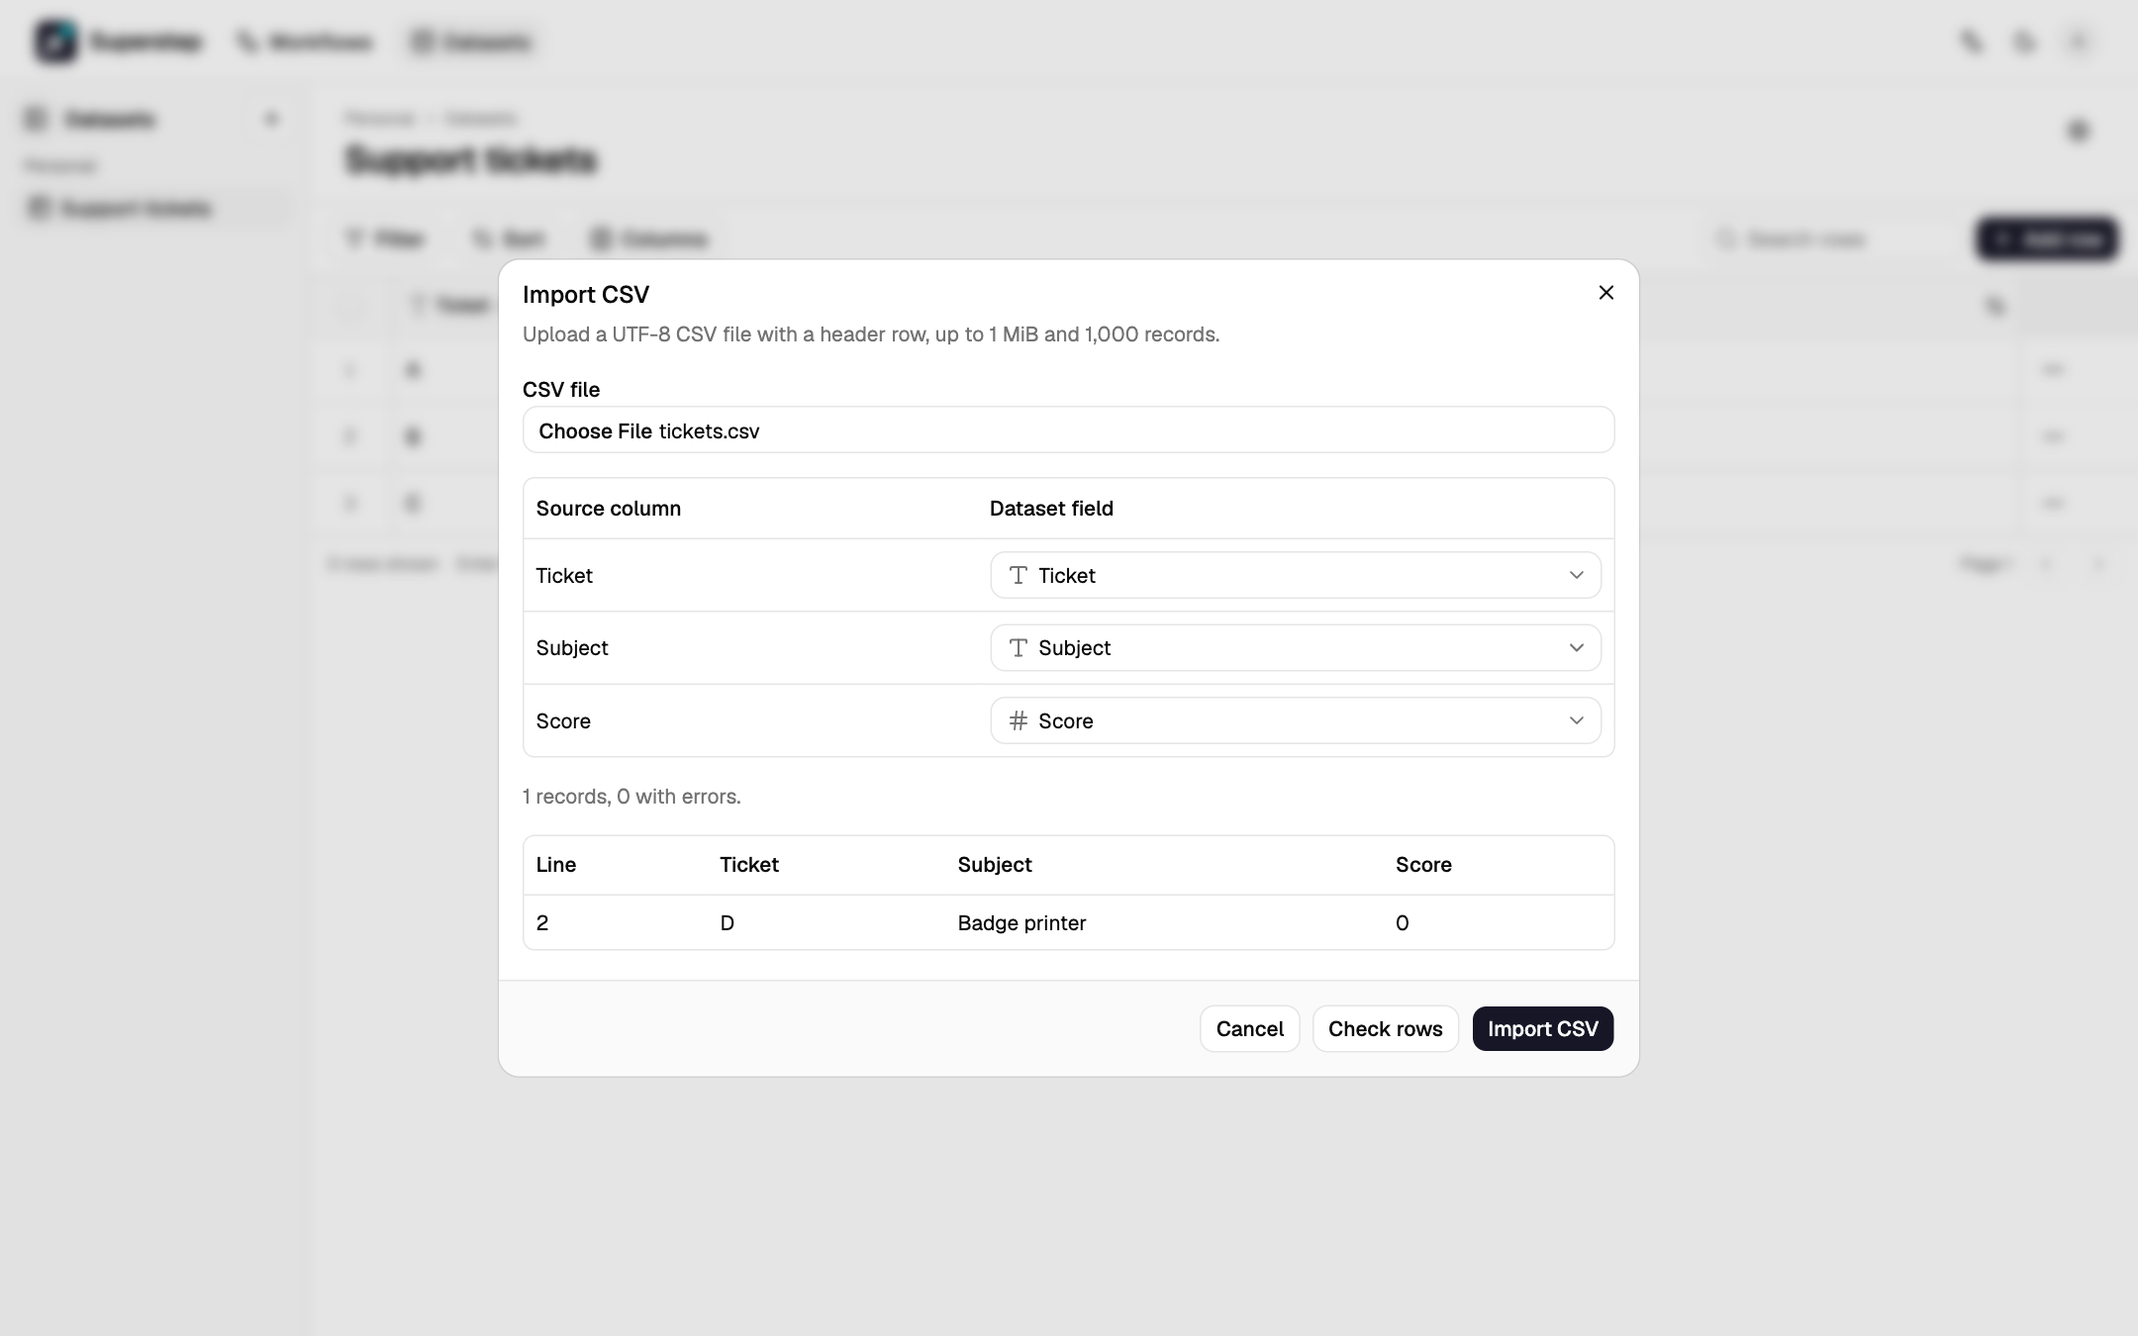
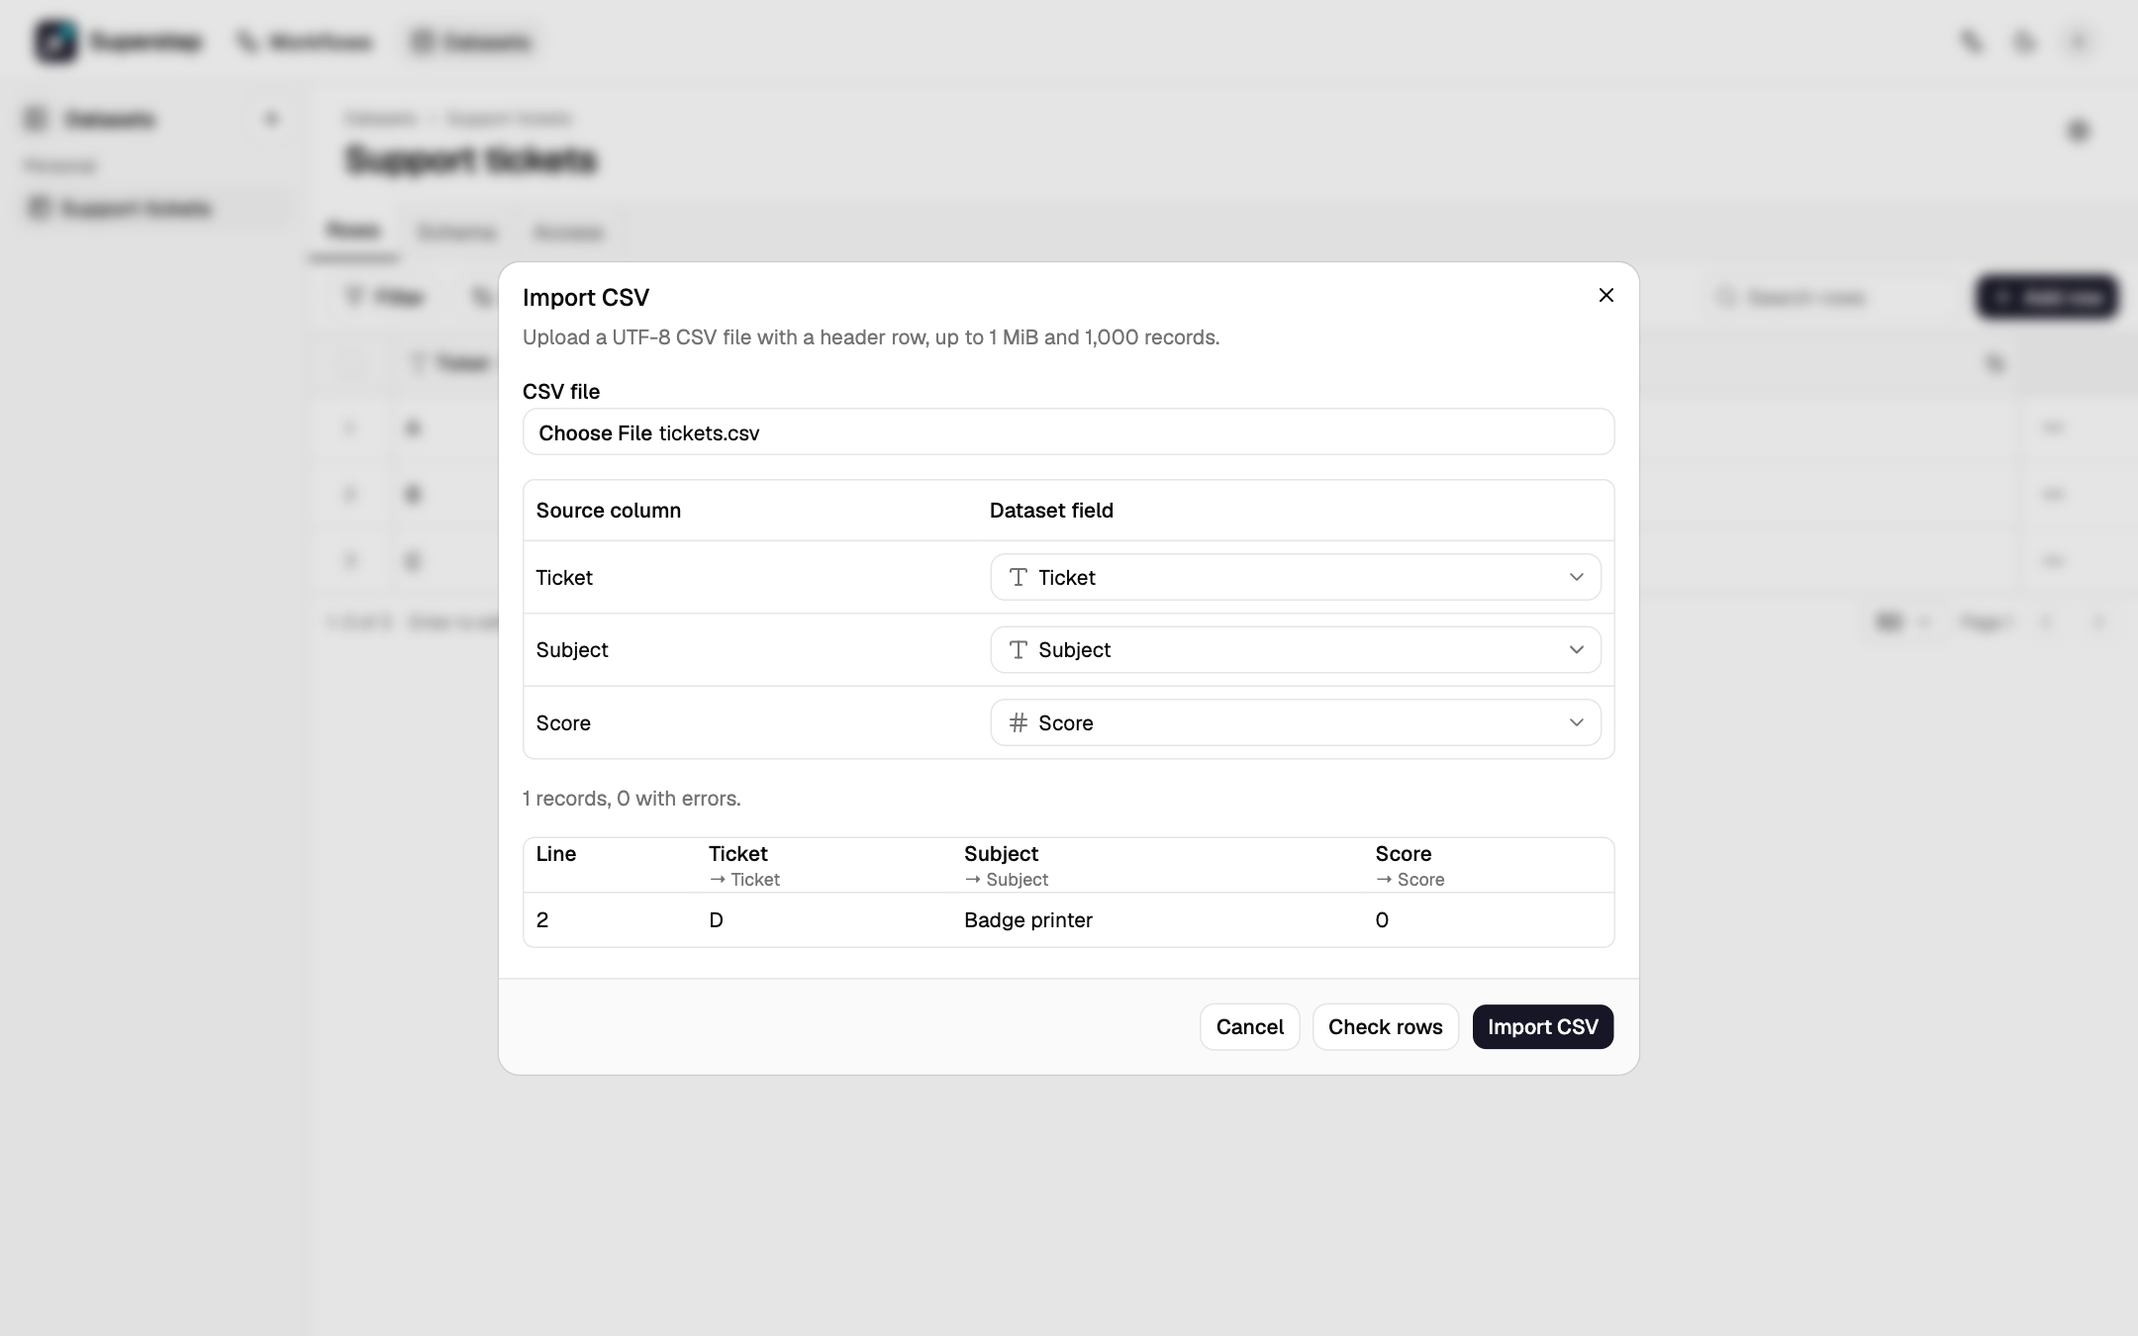
TASK-0344 Record Dataset phase one acceptance

diff --git a/frontend/e2e/dataset-handbook.spec.ts b/frontend/e2e/dataset-handbook.spec.ts
@@ -32,7 +32,7 @@ test('capture the dataset grid, a narrow layout, and the CSV preview', async ({ 
       viewport: { width: 1440, height: 900 }, deviceScaleFactor: 1.5, locale: lang === 'vi' ? 'vi-VN' : 'en-US',
     })
     const page = await context.newPage()
-    await page.addInitScript(value => localStorage.setItem('lang', value), lang)
+    await page.addInitScript(value => { localStorage.setItem('lang', value); localStorage.setItem('theme', 'light') }, lang)
     await page.goto('/login')
     const token = await signIn(page, 'admin@example.com', 'admin123')
     const headers = { Authorization: `Bearer ${token}` }
@@ -63,6 +63,15 @@ test('capture the dataset grid, a narrow layout, and the CSV preview', async ({ 
     await expect(page.getByRole('heading', { name: copy.name })).toBeVisible()
     await expect(page.getByTestId('dataset-row')).toHaveCount(3)
     await shot(page, lang, 'datasets-grid')
+    await page.evaluate(() => {
+      localStorage.setItem('theme', 'dark')
+      document.documentElement.classList.add('dark')
+    })
+    await shot(page, lang, 'datasets-grid-dark')
+    await page.evaluate(() => {
+      localStorage.setItem('theme', 'light')
+      document.documentElement.classList.remove('dark')
+    })
 
     await page.setViewportSize({ width: 390, height: 844 })
     await expect(page.getByTestId('dataset-row').first()).toBeVisible()

diff --git a/handbook/docs/vi/guide/datasets.md b/handbook/docs/vi/guide/datasets.md
@@ -4,11 +4,18 @@ Tập dữ liệu là một bảng có kiểu, thuộc về bạn hoặc một n
 cứu và ghi dòng. Dự án xuất ra có thể dùng cùng các dòng đó qua API Superstep
 hoặc qua cơ sở SQLite hay PostgreSQL riêng.
 
-## Soạn thảo
+## Soạn thảo {#authoring}
 
 Mở **Tập dữ liệu** từ điều hướng của studio.
 
+**Dòng dữ liệu**, **Định nghĩa cột** và **Quyền truy cập** là các thẻ có liên kết trực tiếp.
+Trình duyệt lưu thứ tự, độ rộng và trạng thái ẩn cột riêng cho từng tập dữ liệu.
+Bạn có thể chọn 25, 50 hoặc 100 dòng mỗi trang. Phạm vi đang hiển thị phản ánh
+kết quả tìm kiếm và bộ lọc hiện tại.
+
 ![Lưới Phiếu hỗ trợ](../images/datasets-grid.png)
+
+[Xem lưới ở giao diện tối](../images/datasets-grid-dark.png)
 
 Trên màn hình hẹp, danh mục xếp dưới tiêu đề và lưới cuộn ngang.
 
@@ -53,9 +60,9 @@ các thao tác này ở trạng thái tắt, kèm giải thích, cho các thành
 trị viên có thể chuyển tập dữ liệu nhóm cho thành viên khác bằng **Chuyển quyền
 sở hữu** trong menu tập dữ liệu.
 
-## Quyền truy cập
+## Quyền truy cập {#access}
 
-Menu **Quyền truy cập** cấp cho một workflow đã lưu quyền đọc hoặc ghi. Workflow
+Thẻ **Quyền truy cập** cấp cho một workflow đã lưu quyền đọc hoặc ghi. Workflow
 không có quyền đó không chạy được node Tập dữ liệu hoặc công cụ Tập dữ liệu trên
 bảng này. Xoá dòng là một quyền riêng: chọn **Cho phép xoá dòng** trên quyền đã
 cấp. Chỉ quyền đọc và ghi thì không được Xoá dòng.
@@ -87,7 +94,7 @@ cả khi có quyền đọc và ghi. Upsert vẫn cho biết đã có dòng mang
 chưa. Nếu điều này cần được giữ kín, hãy dùng **Thêm dòng**. Upsert không đổi giá
 trị nào thì giữ nguyên revision và thời điểm cập nhật của dòng.
 
-## CSV
+## CSV {#csv}
 
 **Nhập CSV** xem trước tệp trước khi ghi.
 
@@ -107,7 +114,7 @@ trị nào thì giữ nguyên revision và thời điểm cập nhật của dò
   thức được thêm dấu nháy đơn ở đầu. Khi nhập, dấu nháy đó được bỏ đi, nên xuất
   rồi nhập lại cho đúng các giá trị cũ. Bản tải về tối đa 16 MiB.
 
-## Workflow và xuất dự án
+## Workflow và xuất dự án {#workflows-and-export}
 
 Node Tập dữ liệu có thể tìm dòng, lấy một dòng, chèn dòng, upsert dòng, hoặc
 xoá dòng. **Xoá dòng** chọn dòng theo id dòng lấy từ state, hoặc theo một trường
@@ -135,12 +142,25 @@ triển khai có thể đổi backend mà không cần xuất lại. Đặt:
 Chạy `python agent.py --setup-datasets` hoặc lệnh TypeScript tương ứng trước
 lần chạy đầu. Setup lặp lại vẫn an toàn. Lệnh tạo các bảng của dự án và giữ
 những dòng đã có. Xoá dòng và thao tác ghi của Agent cũng chạy trên cơ sở dữ
-liệu độc lập, và mỗi lần ghi được lưu lại để lần thử lại trả về kết quả đầu. Ảnh chụp tắt trừ khi bạn chọn **Kèm các dòng hiện tại** cho
+liệu độc lập. Khi thử lại đúng yêu cầu trong thời hạn lưu biên nhận, hệ thống
+trả mã dòng và kết quả chèn ban đầu, kèm giá trị hiện tại nếu dòng còn tồn tại.
+Sau khi nâng cấp bản xuất độc lập, hãy chạy lại lệnh thiết lập để chuyển đổi
+biên nhận cũ. Ảnh chụp tắt trừ khi bạn chọn **Kèm các dòng hiện tại** cho
 binding độc lập. Khi đó gói chứa tối đa 1.000 dòng trong
 `dataset-snapshots.json`. Setup chỉ nhập dòng ảnh chụp khi id đó chưa được lưu,
 và từ chối ảnh chụp có lược đồ không khớp binding.
 
-## Sao lưu, nâng cấp, và giới hạn
+Trước khi chạy một quy trình có thể ghi dữ liệu, Studio yêu cầu xác nhận một
+lần trong phiên trình duyệt. Kiểm thử quy trình chỉ mô phỏng thao tác ghi.
+Nhật ký nút tập dữ liệu hiển thị thao tác, kết quả, số dòng và thời gian.
+Bạn có thể mở phần dữ liệu thô khi cần. Người quản lý có thể dùng **Cấp quyền**
+trong thông báo thiếu quyền để mở thẻ **Quyền truy cập** với quy trình đã chọn.
+
+Mã truy cập hợp lệ nhưng thiếu quyền thao tác trả về `403 DATASET_TOKEN_SCOPE`.
+Mã không hợp lệ, đã bị thu hồi hoặc thuộc tập dữ liệu khác trả về
+`401 AUTH_TOKEN_INVALID`.
+
+## Sao lưu, nâng cấp, và giới hạn {#backup-upgrade-and-limits}
 
 Sao lưu tệp SQLite độc lập bằng cách chép tệp khi không có tiến trình ghi, hoặc
 sao lưu PostgreSQL bằng `pg_dump`. Cơ sở Superstep giữ dòng của Studio trong

diff --git a/handbook/docs/en/guide/datasets.md b/handbook/docs/en/guide/datasets.md
@@ -4,11 +4,16 @@ A dataset is a typed table owned by you or by a team. Workflows can look up and
 write rows. An exported project can use the same rows through the Superstep API
 or through its own SQLite or PostgreSQL database.
 
-## Authoring
+## Authoring {#authoring}
 
-Open **Datasets** from the studio navigation.
+Open **Datasets** from the Studio navigation. **Rows**, **Schema**, and
+**Access** are tabs that you can link to directly. The grid saves column order,
+widths, and visibility in your browser for each dataset. Choose 25, 50, or 100
+rows per page. The range reflects the active search and filters.
 
 ![The Support tickets grid](../images/datasets-grid.png)
+
+[View the grid in dark mode](../images/datasets-grid-dark.png)
 
 On a narrow screen the catalog folds under the header and the grid scrolls sideways.
 
@@ -54,9 +59,9 @@ shows these actions disabled, with an explanation, for other members. An
 admin can move a team dataset to another team member with **Transfer
 ownership** in the dataset menu.
 
-## Access
+## Access {#access}
 
-The dataset menu **Access** grants one saved workflow read or write permission.
+The **Access** tab grants one saved workflow read or write permission.
 A workflow without that grant cannot run a Dataset node or Dataset tool against
 it. Deleting rows is a separate capability: check **Allow row deletion** on the
 grant. Read and write alone do not allow Delete row.
@@ -88,7 +93,7 @@ write access. Upsert still reveals whether a row with that key exists. If that
 must stay hidden, use **Insert row**. An upsert that changes no value keeps the
 row's revision and update time.
 
-## CSV
+## CSV {#csv}
 
 **Import CSV** previews the file before it writes anything.
 
@@ -109,7 +114,7 @@ row's revision and update time.
   removes that apostrophe again, so exporting and importing a file gives the
   same values. The download is at most 16 MiB.
 
-## Workflows and export
+## Workflows and export {#workflows-and-export}
 
 A Dataset node can find rows, get one row, insert a row, upsert a row, or
 delete a row. **Delete row** targets either a row id from the state or one
@@ -137,14 +142,26 @@ environment, so a deployment can change it without exporting again. Set:
 Run `python agent.py --setup-datasets` or the TypeScript equivalent before the
 first run. Setup is safe to repeat. It creates the project tables and keeps
 rows that are already stored. Delete row and Agent writes also work in a
-standalone database, and each write is recorded so a retry returns the first
-result. A snapshot is off unless you check **Include
+standalone database. An exact retry within the receipt window returns its
+original row ID and insert outcome, with current values when the row still
+exists. Run setup after upgrading an existing standalone export to migrate old
+receipts. A snapshot is off unless you check **Include
 current rows** for a standalone binding. The archive then contains at most
 1,000 rows in `dataset-snapshots.json`. Setup imports a snapshot row only when
 its id is not already stored, and it rejects a snapshot whose schema does not
 match the binding.
 
-## Backup, upgrade, and limits
+Before Studio runs a workflow that can write rows, it asks you to confirm once
+in your browser session. Workflow tests simulate writes. The Dataset trace
+shows the operation, outcome, row count and time, with raw output available on
+request. Managers can use **Grant access** in the missing-grant hint to open
+**Access** with the workflow selected.
+
+A valid Dataset API token with insufficient scope returns
+`403 DATASET_TOKEN_SCOPE`. Invalid, revoked, and other-dataset tokens return
+`401 AUTH_TOKEN_INVALID`.
+
+## Backup, upgrade, and limits {#backup-upgrade-and-limits}
 
 Back up a standalone SQLite file by copying it while no writer is open, or back
 up PostgreSQL with `pg_dump`. The Superstep database holds Studio rows in the

diff --git a/.factory-state/artifacts/QA-0335-TASK-0344-dataset-fixes-acceptance.md b/.factory-state/artifacts/QA-0335-TASK-0344-dataset-fixes-acceptance.md
@@ -1,0 +1,35 @@
+# QA Report
+
+## Metadata
+
+- Project: superstep
+- QA ID: QA-0335
+- Task ID: TASK-0344
+- Created: 2026-11-14
+- Outcome: pass with follow-up
+
+## Evidence
+
+The integrated Dataset regression, layers and envelope suite passed with 102 passed and 94 skipped on the local SQLite environment with Deno. Six Playwright cases passed, including the bilingual handbook capture. Frontend build, unit suite (319 tests), lint, both strict handbook builds, image link checking and the five matching handbook section anchors passed.
+
+## Required Follow-Up
+
+Confirm the GitHub checks on the proposed merge head. This PR contains the implementation stack for verification. Final admission to develop requires the dependency PRs and fresh integration CI.
+
+## Finding Coverage
+
+| Finding in REQ-0100 | Regression evidence |
+| --- | --- |
+| Write-only frames and needless revisions | `test_dataset_write_only.py::test_write_only_token_reproduces_review_probe`, `test_noop_upsert_keeps_revision_updated_and_audit` |
+| Receipt data, replay and expiry | `test_dataset_receipts.py::test_receipt_migration_minimizes_all_cells_and_supports_downgrade`, `test_deleted_row_replay_and_worker_retention` |
+| Null-safe inequality and case-insensitive Find | `test_dataset_rows.py::test_ne_matches_empty_cells_and_text_matching_ignores_case`, `test_text_sort_ignores_case_with_an_exact_tiebreak` |
+| Team management and token issuer | `test_dataset_team_authority.py::test_team_editors_edit_rows_and_managers_manage`, `test_rotation_keeps_the_issuer_and_the_token_still_authorizes` |
+| Turn on Unique after import | `test_dataset_schema_changes.py::test_csv_import_then_unique_allows_upsert` |
+| Membership, sharing and mapped filter errors | `test_datasets.py`, `test_dataset_access.py::test_grants_require_saved_workflow_and_explicit_team_scope`, `test_dataset_runtime.py::test_dataset_node_names_invalid_filter_and_empty_state_key` |
+| Scope error versus invalid credentials | `test_dataset_connected.py::test_connected_schema_and_scope_fail_explicitly` |
+| Removed columns and required defaults | `test_dataset_schema_changes.py::test_removed_columns_free_the_active_limit_and_keep_keys_reserved`, `test_required_column_with_default_backfills_existing_rows` |
+| CSV round trip and mandatory revisions | `test_dataset_csv.py::test_csv_round_trip_keeps_leading_zeros_plus_signs_and_formulas`, `test_studio_deletes_require_the_revision` |
+| Viewer, empty, not-found, delete naming and CSV issues | `dataset-studio-states.spec.ts`, all three scenarios passed |
+| Dataset tab URLs, grid persistence and pagination | `dataset-grid-usability.spec.ts`, with refreshed English and Vietnamese light and dark grid captures |
+| Run trace, write warning and grant shortcut | `dataset-trace.test.ts`, `dataset-run-feedback.spec.ts` |
+| Python and TypeScript export parity | `test_dataset_python_standalone.py`, `test_dataset_typescript_standalone.py` with Deno |

diff --git a/.factory-state/tasks/review/TASK-0344-dataset-fixes-acceptance.md b/.factory-state/tasks/review/TASK-0344-dataset-fixes-acceptance.md
@@ -5,10 +5,10 @@
 - Project: superstep
 - Task ID: TASK-0344
 - Title: Accept the Dataset fixes and update the handbook
-- Status: backlog
+- Status: review
 - Owner: Thái Quí Nguyễn
 - Created: 2026-11-13
-- Updated: 2026-11-13
+- Updated: 2026-11-14
 - Requirement IDs: REQ-0100
 - Design IDs: DES-0007
 - Architecture IDs: ARCH-0003
@@ -70,6 +70,10 @@ One acceptance pass proves the review findings are closed and the handbook state
 ## Activity Log
 
 - 2026-11-13: Created by planning on branch `factory/plan-dataset-fixes-phase3`. No implementation. Stays in backlog until the owner accepts REQ-0100 and PLAN-0018.
+
+- 2026-11-14: Started acceptance on the integrated implementation heads from PRs #396 through #400. Final acceptance runs again after those PRs merge.
+
+- 2026-11-14: Implemented and ran targeted checks. Review [REV-0335](../../artifacts/REV-0335-TASK-0344-dataset-fixes-acceptance.md) and QA [QA-0335](../../artifacts/QA-0335-TASK-0344-dataset-fixes-acceptance.md).
 
 ## Handoff Notes
 

diff --git a/.factory-state/artifacts/PLAN-0018-dataset-phase1-fixes.md b/.factory-state/artifacts/PLAN-0018-dataset-phase1-fixes.md
@@ -43,7 +43,7 @@ Close the Datasets phase 1 review findings, starting with the P0 write-only read
 | [TASK-0341](../tasks/review/TASK-0341-dataset-grid-usability.md) | P2 | Layout persistence, page size, totals, widths, dates, tabs | TASK-0340 |
 | [TASK-0342](../tasks/review/TASK-0342-dataset-run-feedback.md) | P2 | Trace summary, real-write notice, Grant shortcut | TASK-0341 |
 | [TASK-0343](../tasks/review/TASK-0343-dataset-export-fix-parity.md) | P1 | Python and TypeScript parity for the fixes | TASK-0329, TASK-0330, TASK-0332, TASK-0333, TASK-0334, TASK-0337 |
-| [TASK-0344](../tasks/backlog/TASK-0344-dataset-fixes-acceptance.md) | P1 | Regression suite, screenshots, handbook | TASK-0332 to TASK-0343 |
+| [TASK-0344](../tasks/review/TASK-0344-dataset-fixes-acceptance.md) | P1 | Regression suite, screenshots, handbook | TASK-0332 to TASK-0343 |
 
 ## P0 Ordering Against The Phase 2 Chain
 

diff --git a/.factory-state/artifacts/REV-0335-TASK-0344-dataset-fixes-acceptance.md b/.factory-state/artifacts/REV-0335-TASK-0344-dataset-fixes-acceptance.md
@@ -1,0 +1,21 @@
+# Review
+
+## Metadata
+
+- Project: superstep
+- Review ID: REV-0335
+- Task ID: TASK-0344
+- Created: 2026-11-14
+- Outcome: approved for QA
+
+## Scope
+
+Reviewed the integrated Dataset changes, finding-to-test traceability, bilingual handbook links and real Studio captures.
+
+## Findings
+
+No blocking findings in the reviewed diff. This PR contains the implementation stack for verification. Final admission to develop requires the dependency PRs and fresh integration CI.
+
+## Standards And References
+
+Reviewed against REQ-0100, PLAN-0018 and the project architecture and UI conventions applicable to the change.
